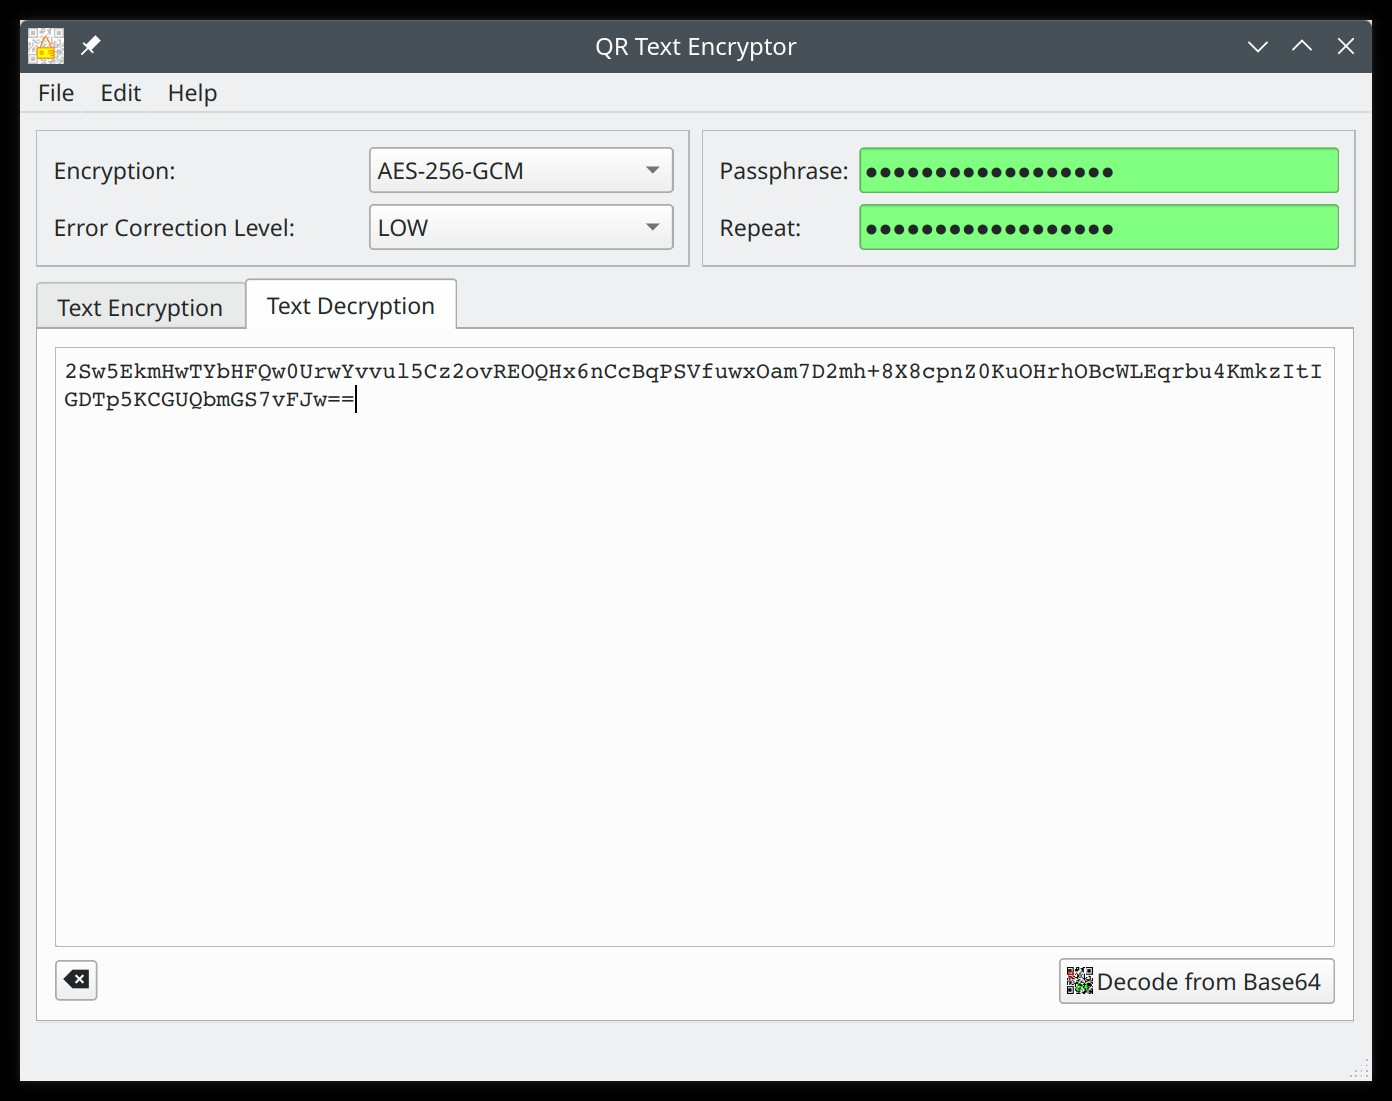
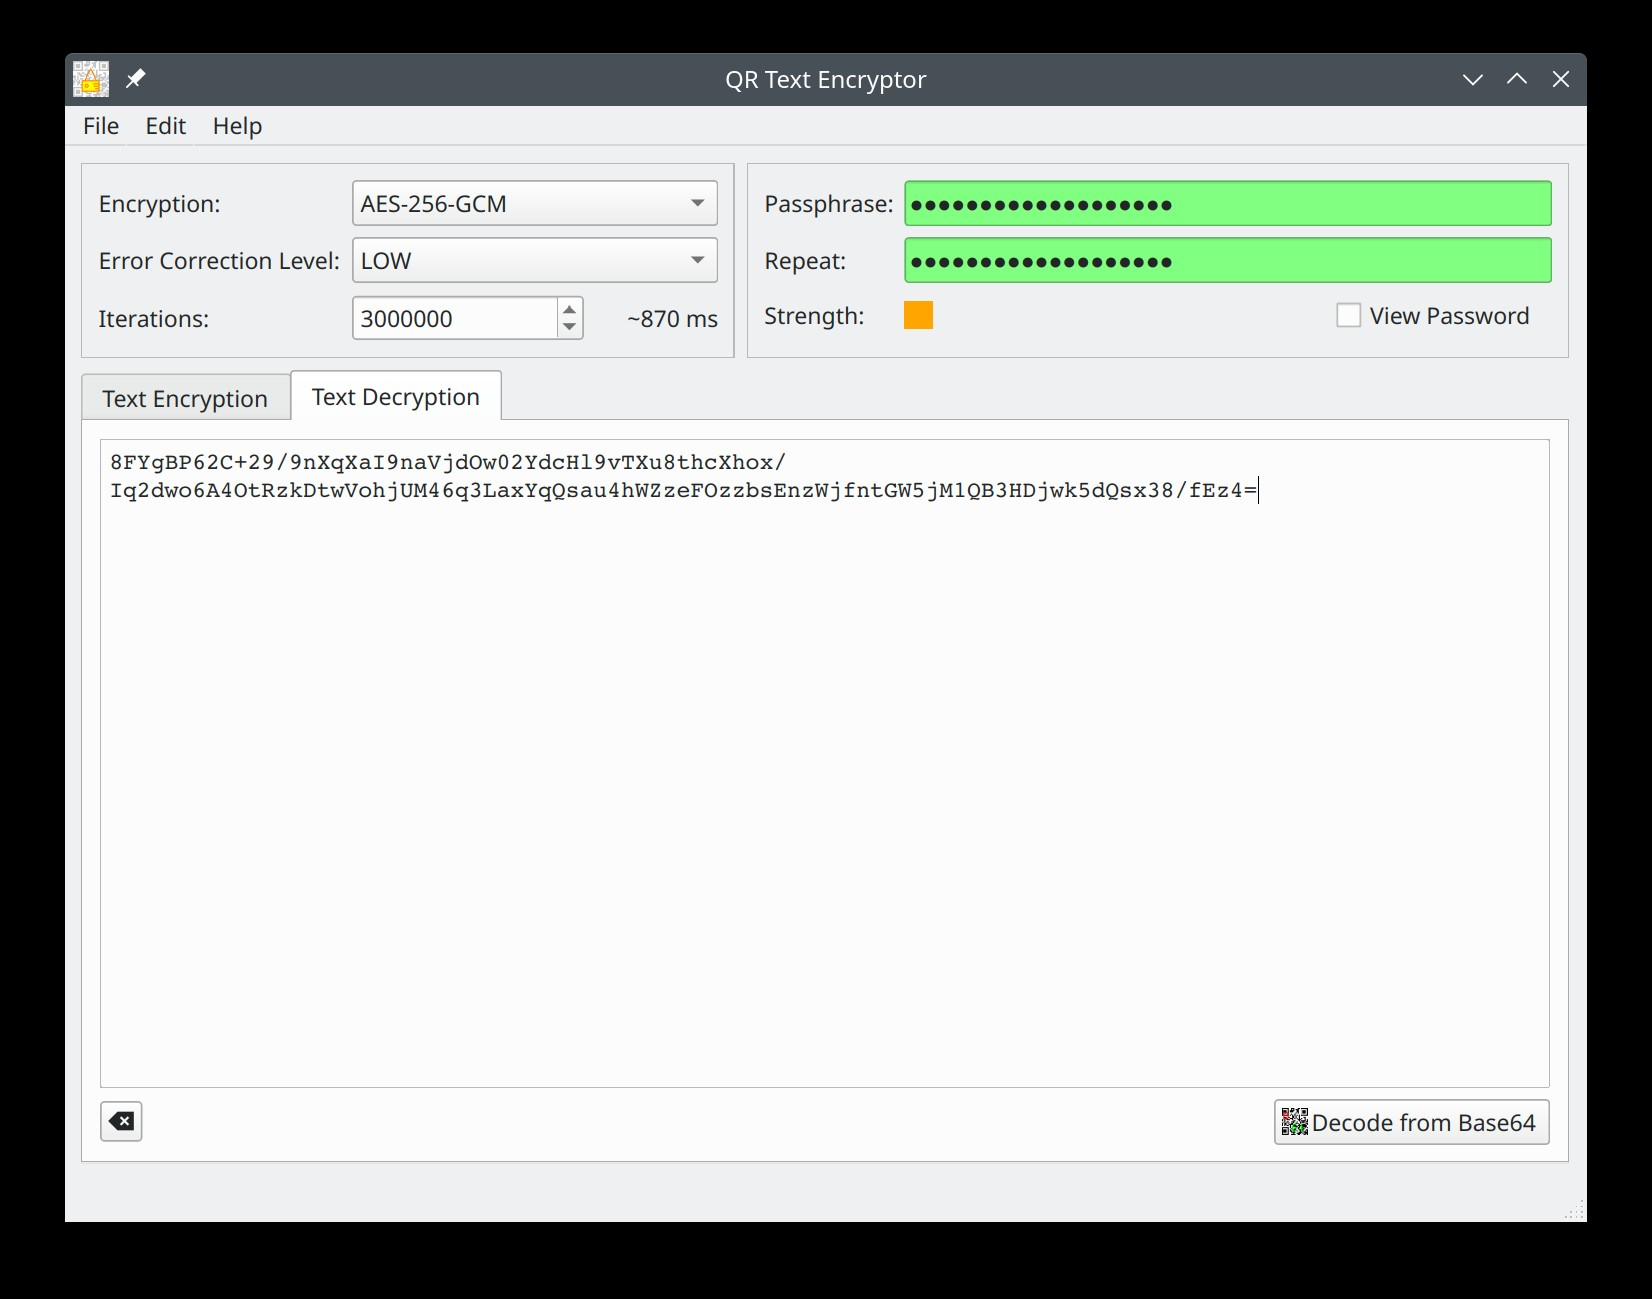
Release v1.0.1
- Encrypt using user configured iterations, default: 3000000 (more
difficult to crack), and the GUI will show how much time takes to try
one password in a single core CPU
- View Password Option
- Encrypt is now a button, not automatically while typing, because the
iterations will make the auto-generation too slow.

Changed region(s): [[0.0, 0.0, 0.9885, 0.9882]]

diff --git a/README.md b/README.md
@@ -14,8 +14,9 @@ License: GPLv3
 
 ## Encryption Usage
 
-1. Enter your passphrase (and confirm it).
-2. Enter the text you want to encrypt in the text field. (the QR will be automatically generated while you write)
+1. Enter your passphrase and iterations.
+2. Enter the text you want to encrypt in the text field. 
+3. Click on the encrypt button
 3. Use the "Print" option in the "File" menu to print/scale the QR code.
 
 ![Encryption Image](img/gui_enc.jpg "Encryption")
@@ -23,7 +24,7 @@ License: GPLv3
 
 ## Decryption Usage
 
-1. Enter your passphrase (and confirm it).
+1. Enter your passphrase and iterations.
 2. Go to the text decryption tab and enter the base64 encrypted text you want to decrypt in the text field. (you can scan the QR code and get the base64 encrypted text using any android/ios device using any QR code reader available)
 3. Press the "Decode from base64 button" to decrypt the data.
 
@@ -48,4 +49,4 @@ make
 - This software is provided 'as-is', without any express or implied warranty. In no event will the authors be held liable for any damages arising from the use of this software.
 - The security of the encrypted QR code generated by this software is dependent on the strength of the password chosen by the user. It is the user's responsibility to select a strong and secure password to ensure the protection of the encrypted information. The authors of this software will not be held liable for any damages resulting from the use of a weak or easily guessable password.
 - The user assumes all responsibility for any damages resulting from the use of this software, and is advised to test the software thoroughly before relying on it for any purpose.
-
+- If you loose the password or the iteration count of the password, the QR data will be unavailable for you.
